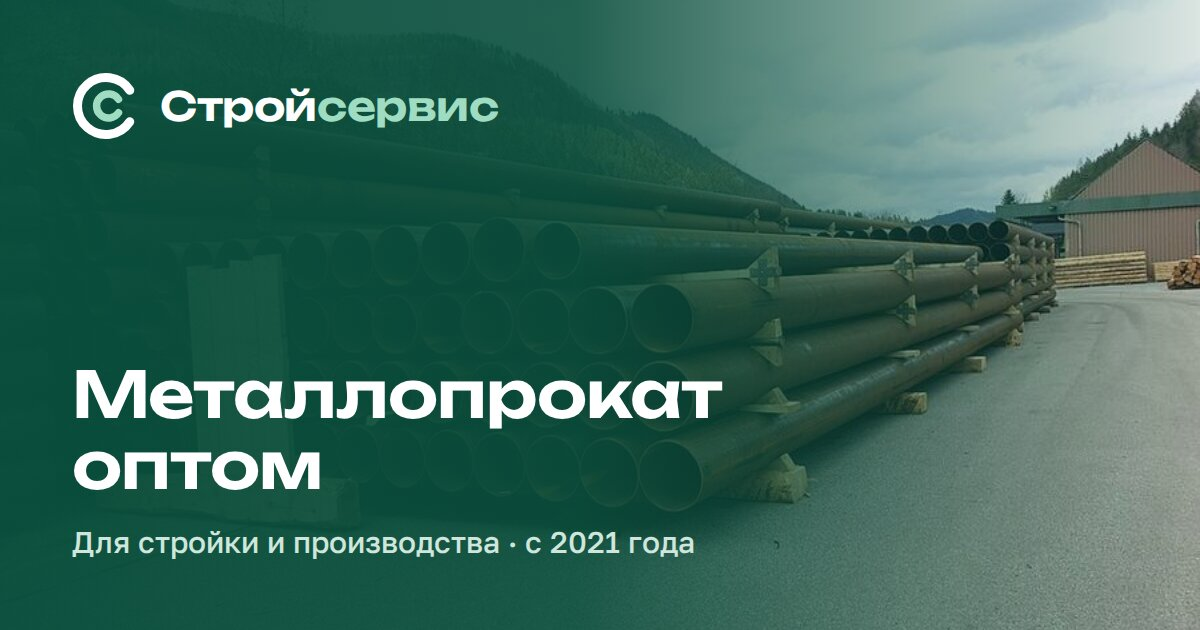
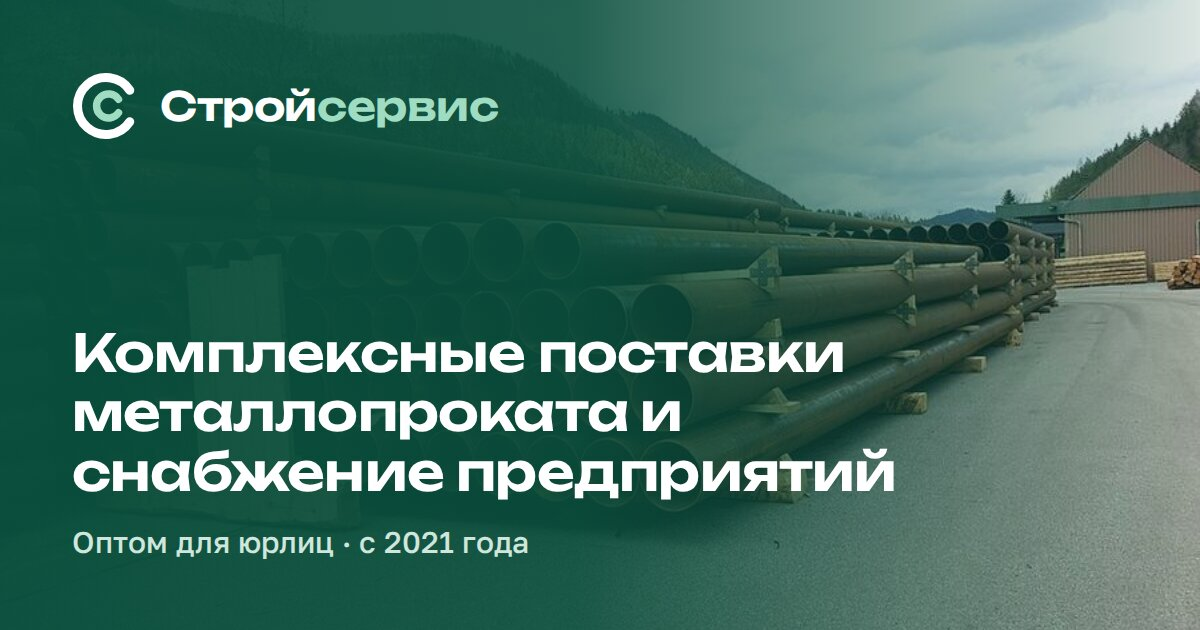
Превью: заголовок «Комплексные поставки…»

Changed region(s): [[0.0617, 0.5127, 0.7708, 0.7841], [0.0617, 0.8444, 0.5858, 0.9048]]

diff --git a/index.html b/index.html
@@ -8,10 +8,10 @@
 <meta name="description" content="ООО «Стройсервис»: оптовые поставки металлопроката, труб, металлоизделий и трубопроводной арматуры для строительных и промышленных предприятий. Москва и регионы.">
 <meta property="og:type" content="website">
 <meta property="og:site_name" content="Стройсервис">
-<meta property="og:title" content="Стройсервис — металлопрокат оптом">
+<meta property="og:title" content="Стройсервис — комплексные поставки металлопроката и снабжение предприятий">
 <meta property="og:description" content="Прокат, трубы, сетка, крепёж и трубопроводная арматура для юрлиц. Одним договором, с доставкой.">
 <meta property="og:url" content="https://stroyservice-ru.github.io/">
-<meta property="og:image" content="https://stroyservice-ru.github.io/img/og.jpg?v=7b6bbb97">
+<meta property="og:image" content="https://stroyservice-ru.github.io/img/og.jpg?v=91aa6e5f">
 <meta property="og:image:width" content="1200">
 <meta property="og:image:height" content="630">
 <meta name="twitter:card" content="summary_large_image">
